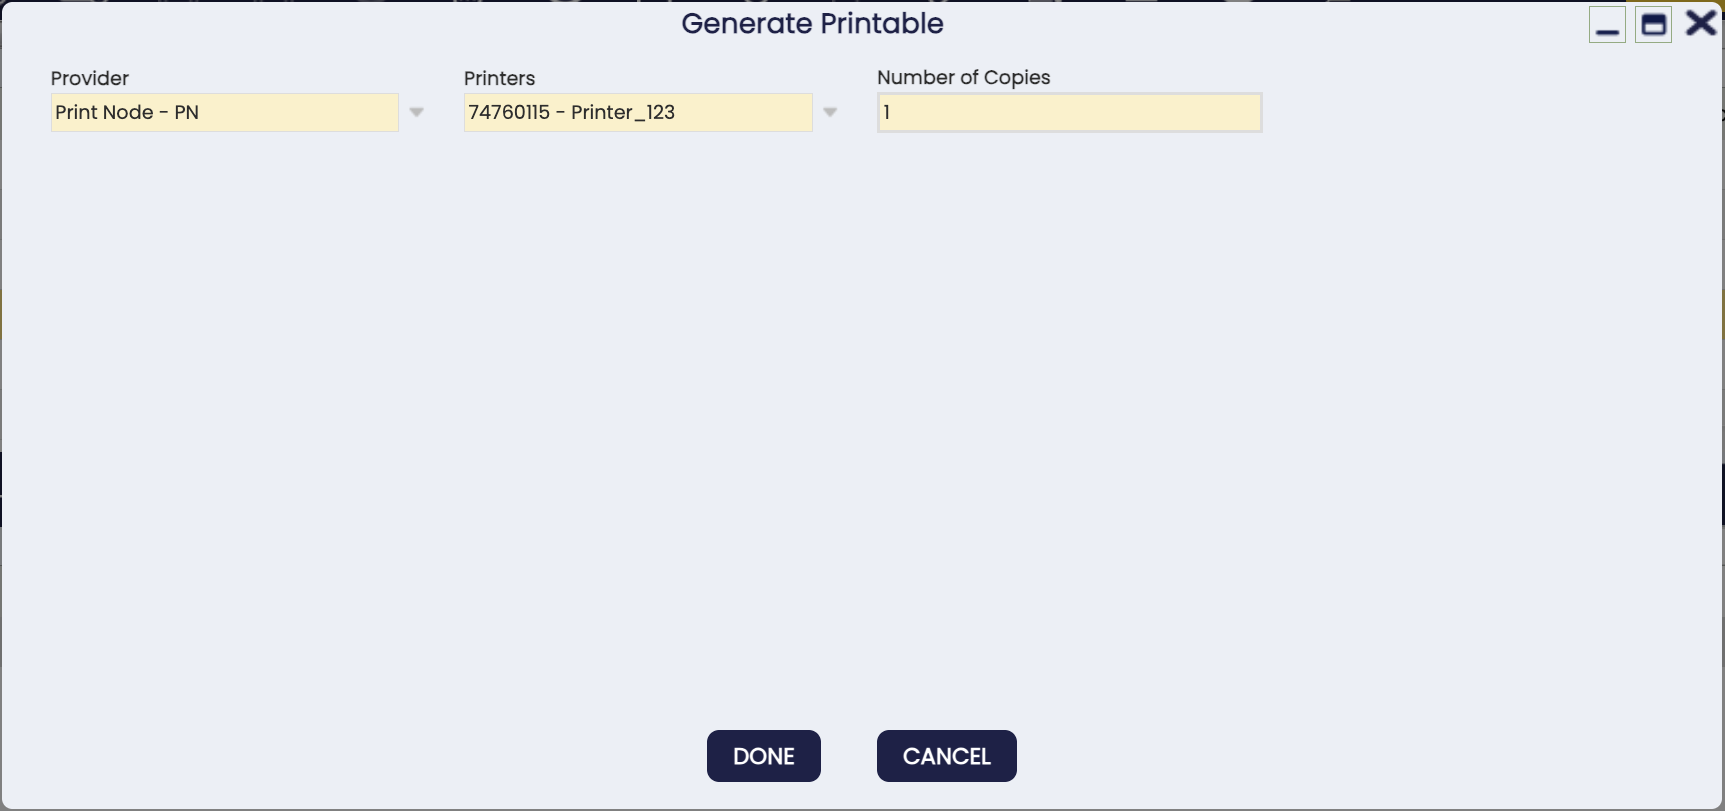
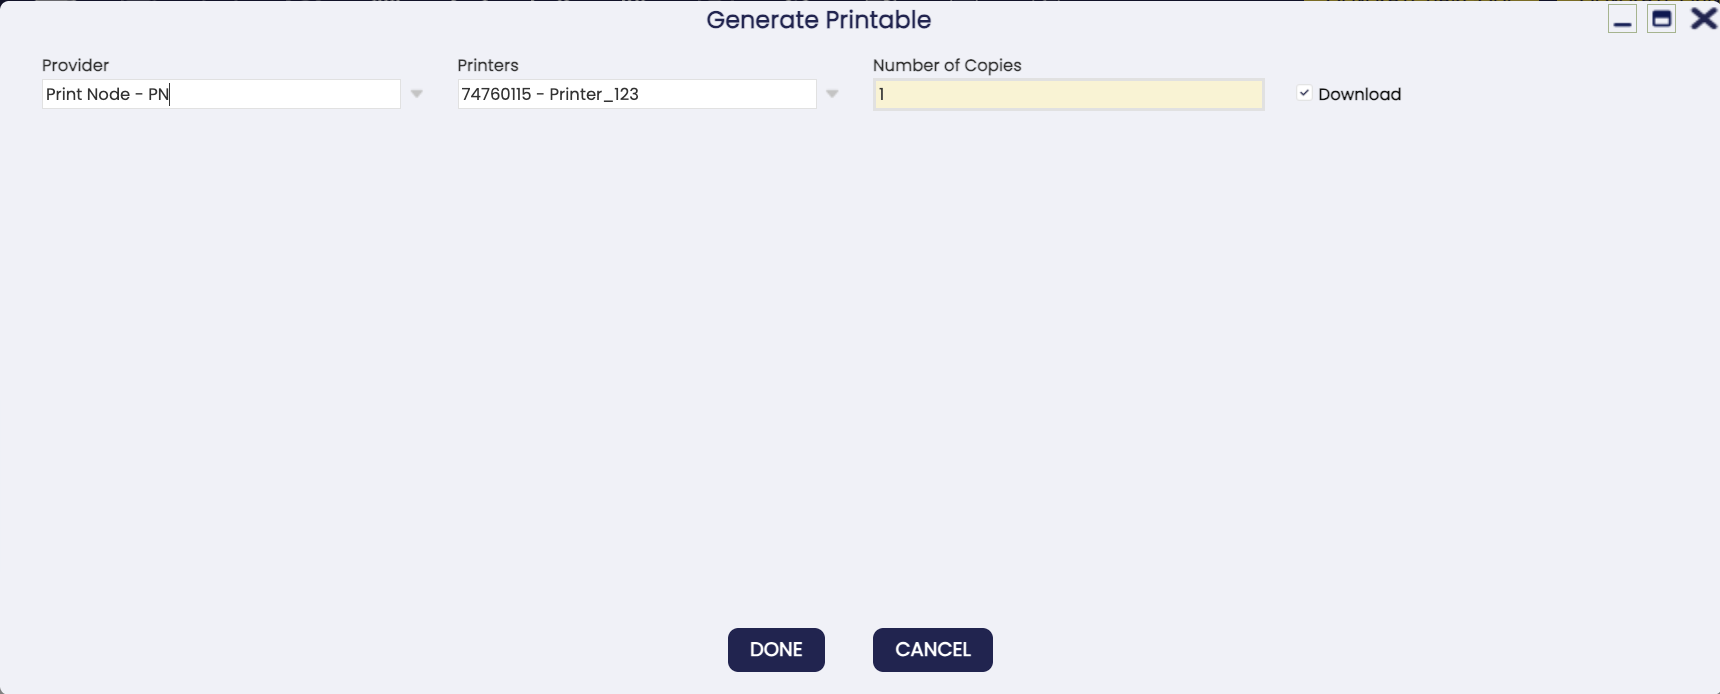
Feature ETP-3499: Predefined providers and printable downloads

diff --git a/docs/user-guide/etendo-classic/optional-features/bundles/platform-extensions/print-provider.md b/docs/user-guide/etendo-classic/optional-features/bundles/platform-extensions/print-provider.md
@@ -17,7 +17,13 @@ The **Print Provider** module connects Etendo with printing platforms, offering 
 
 It allows each organization to configure its print provider, manage and synchronize the catalog of available printers, administer print templates, and execute on-demand printing from specific windows.
 
-The system provides a simple one-click printing workflow: the user selects the printer and template, and Etendo generates the document in the required format and sends it directly to the print provider.
+The module supports two operating modes:
+
+- **Print & Download mode**: The user selects a provider and printer. The system generates the document, sends it to the printer and, optionally, downloads it as a PDF.
+- **Download-only mode**: The user leaves the Provider field empty. The system generates the document and downloads it as a PDF without sending it to any printer. This is useful when no printing provider has been configured or when a digital copy is the only requirement.
+
+!!! tip
+    Download-only mode does not require any provider configuration. It can be used immediately after installing the module and configuring at least one print template.
 
 !!! info 
     This module includes by default the implementation of a specific print provider [Print Node](https://www.printnode.com/){target="_blank"}, and all configuration and usage examples are based on this provider. This service includes a free plan, although if you require large print volumes, you should consult the [service pricing](https://www.printnode.com/pricing){target="_blank"}.    
@@ -129,22 +135,42 @@ Fields to note:
 
 ## Generate Printables
 
-This **button** is a reusable component of the print provider module that can be configured in Etendo windows according to business needs. It allows multiple selection of records to be printed, and when the button is pressed, a pop-up window opens allowing the supplier, desired printer, and number of copies to be selected. Once confirmed, the system generates the printable using the selected template and sends the print job to the configured provider.
+This **button** is a reusable component of the print provider module that can be configured in Etendo windows according to business needs. It allows multiple selection of records and, when pressed, opens a pop-up window where the user can optionally select a provider and printer, specify the number of copies, and choose whether to download the generated file.
 
 !!!info 
-    When selecting multiple records to print, the Number of Copies field indicates the number of copies of each selected record.
+    When selecting multiple records, the Number of Copies field indicates the number of copies of each selected record.
 
-For example, the **Print Provider** module integrates this button into the **Product** window, generating a barcode label for the product.
+For example, the **Print Provider** module integrates this button into the **Product** window, generating a barcode printable for the product.
 
 ![generate-printable](../../../../../assets/user-guide/etendo-classic/optional-features/bundles/platform-extensions/print-provider/generate-printable.png)
 
-The pop-up allows you to select a previously configured print provider, assign the corresponding printer from the list of available devices, and specify the number of copies. Multiple selections are allowed.
+The pop-up presents the following fields. Multiple record selection is allowed.
 
 ![](../../../../../assets/user-guide/etendo-classic/optional-features/bundles/platform-extensions/print-provider/generate-printable-popup.png)
 
-   - **Provider**: Select the previously configured print provider.
-   - **Printers**: Only displays printers associated with the selected provider. Loads the default printer, if available.
-   - **Number of Copies**: Number of copies to be printed.
+   - **Provider**: (Optional) Select a previously configured print provider. When left empty, the system operates in **download-only mode**: it generates the document and downloads it as a PDF without sending it to any printer.
+   - **Printers**: Only visible when a Provider is selected. Displays printers associated with the selected provider. Loads the default printer, if available.
+   - **Number of Copies**: Only visible when a Provider is selected. Number of copies to be printed. In download-only mode this field is hidden and defaults to one copy.
+   - **Download**: When set to **Yes**, the generated printable PDF file is also downloaded to the browser. This option is enabled by default and is always visible regardless of whether a provider is selected. In download-only mode (no provider selected), this field must remain set to **Yes**; otherwise, no action will be performed and a warning will be displayed.
+
+### Download-only Mode
+
+When the **Provider** field is left empty, the process generates the printable documents using the configured template and immediately downloads them as a PDF file to the browser, without requiring any printer or provider configuration. In this mode, a single copy of each document is generated regardless of any previous Number of Copies setting.
+
+- If multiple records are selected, all generated labels are merged into a single PDF for download.
+- If some records fail to generate, the successfully generated labels are still downloaded and a warning is displayed indicating how many failed.
+- If all records fail to generate, an error message is shown.
+
+!!! tip
+    This mode is ideal for users who only need digital copies of their printables, for example to attach them to emails, archive them, or print them manually from a different device or application.
+
+### Print & Download Mode
+
+When a **Provider** and **Printer** are selected, the system generates the printable and sends it to the selected printer. If the **Download** option is set to **Yes**, the generated PDF is also downloaded to the browser.
+
+- If the print job is sent successfully, a success message is displayed with the print job ID.
+- If the print job fails but the label was generated, the PDF is still available for download (when Download is enabled) and a warning is shown.
+- If all print jobs fail and no labels were retained, an error message is displayed.
 
 !!! Warning
     The Print Providers module acts as a bridge between Etendo and the printer. Printer operational issues, such as low paper, low ink, or network connectivity problems, are not managed by this system.
